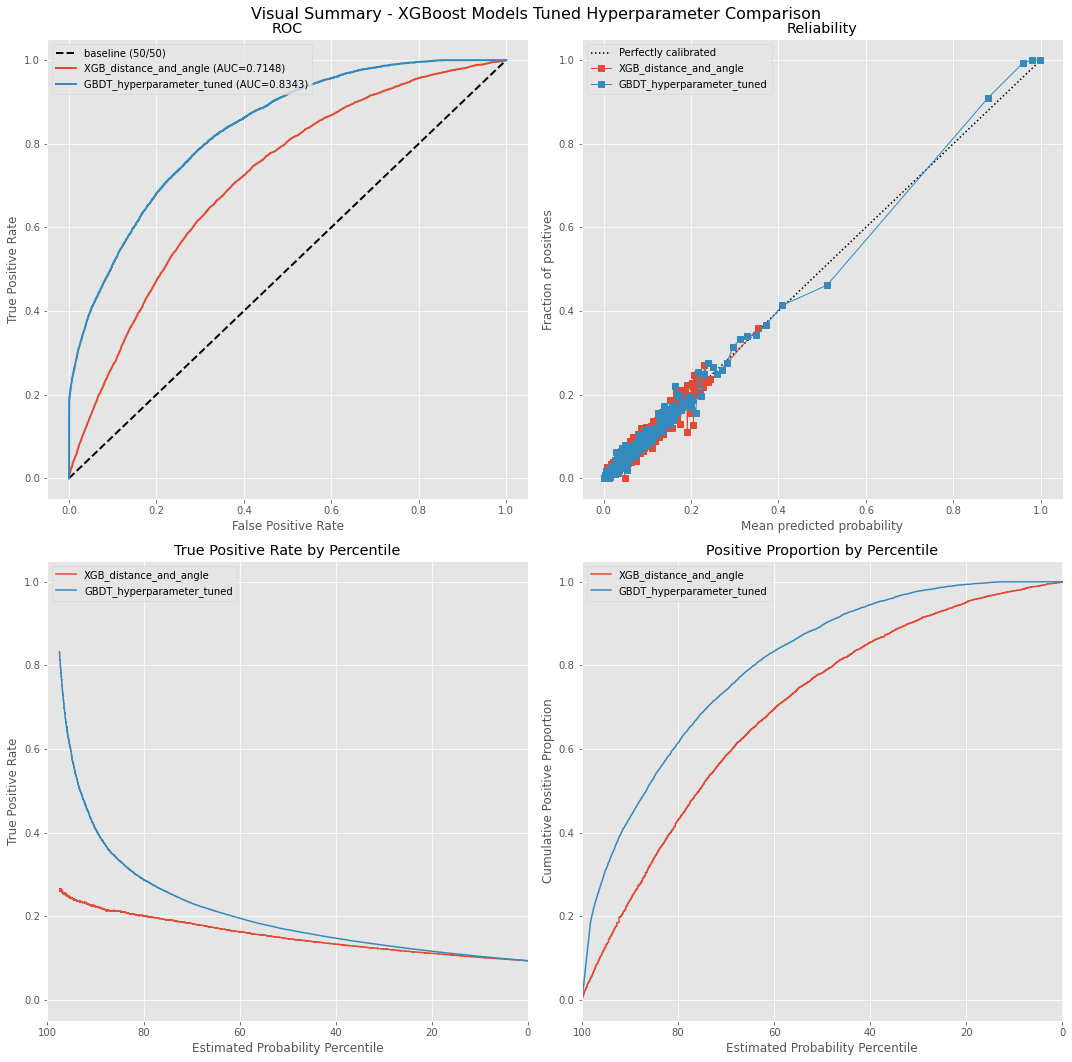
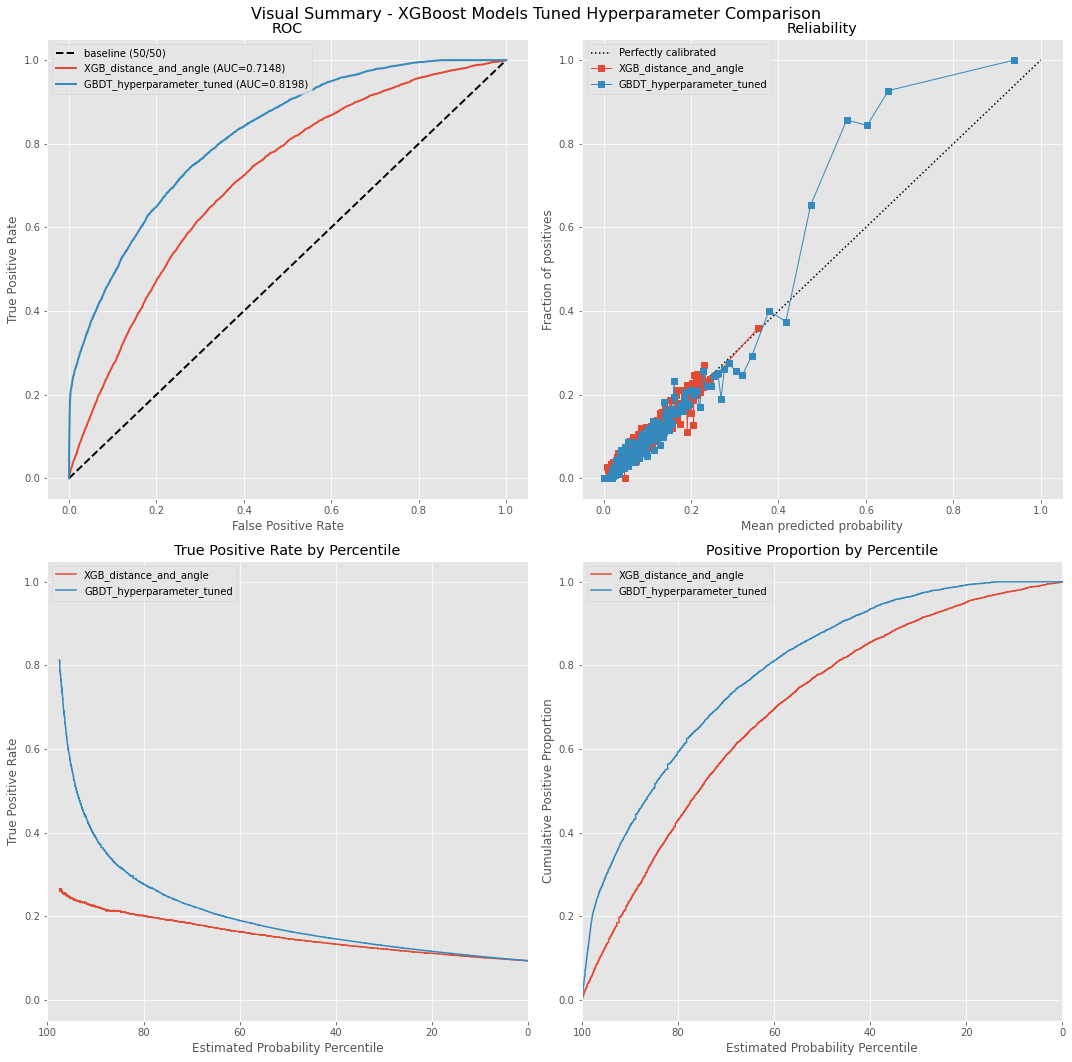
Updated Q2 image and added Q2 write-up.

diff --git a/_posts/2021-11-24-milestone-2 - Advanced Models.md b/_posts/2021-11-24-milestone-2 - Advanced Models.md
@@ -8,7 +8,7 @@ title: NHL Data Science Project - Milestone 2 - Advanced Models
 
 ## Q1: XGBoost Trained on Distance and Angle Features
 
-The XGBoost library is utilized to create the gradient boosted tree classifier, an ensembling method that combines outputs from individual trees to generate the final prediction. A baseline XGBoost model is created as instructed. This baseline model uses the same training/validation setup as the logistic regression models and is trained only on distance and angle features. Compare to the Logistic Regression model trained on distance and angle, the only difference is that the input features are not normalized. This decision is made based on the fact that decision trees are usually not affected by any monotonic transformation. 
+The XGBoost library is utilized to create the gradient boosted tree classifier, an ensembling method that combines outputs from individual trees to generate the final prediction. A simple XGBoost model with a learning rate of 1, depth of 2, using logistic regression for binary classification is created. This baseline model uses the same training/validation setup as the logistic regression models and is trained only on distance and angle features. Compare to the Logistic Regression model trained on distance and angle, the only difference is that the input features are not normalized. This decision is made based on the fact that decision trees are usually not affected by any monotonic transformation. 
 
 While the baseline XGBoost model achieves a very similar accuracy compare to the its Logistic Regssion counterpart (~90%), the confusion matrix reveals that the prediction of goals by this model is non-zero. Plotting the baseline XGBoost model with the Logistis Regression model on the four performance evaluation figures confirms that the XGBoost model has a marginal performance advantage over the Logistis Regression model (See below). Most notably, the reliability curve shows that the XGBoost model produces more higher predicted Probabilities that are inline with the perfectly calibrated line. 
 
@@ -28,17 +28,21 @@ Experiment entry: https://www.comet.ml/tim-k-lee/ift6758-hockey/70a252e382c74d94
 ## Q2: XGBoost Trained on New Features and Hyperparameter Tuning
 
 
+"""In your blog post, discuss your hyperparameter tuning setup, and include figures to substantiate your choice of hyperparameters. For example, you could select appropriate metrics and do a grid search with cross validation. Once tuned, include curves corresponding to the best model to the four figures in your blog post, and briefly compare the results to the XGBoost baseline. Include a link to the relevant comet.ml entry for this experiment, and log this model to the model registry."""
 
+The optimal hyperparameters are obtained through the random search cross validation method. A 5 fold cross-validation splitting strategy is selected, this strategy is repeated 50 iterations to determine the optimal combination. The combination is then refit one last time using the entire dataset to avoid overfitting. The input features used in this experiment include the new features added in the previous sections but exclude the bonus features.
 
-In your blog post, discuss your hyperparameter tuning setup, and include figures to substantiate your choice of hyperparameters. For example, you could select appropriate metrics and do a grid search with cross validation. Once tuned, include curves corresponding to the best model to the four figures in your blog post, and briefly compare the results to the XGBoost baseline. Include a link to the relevant comet.ml entry for this experiment, and log this model to the model registry.
+The parameters obtained through the optimization process are as follow:
+ - Learning rate step size [learning_rate]: 0.1
+ - Number of gradient boosted trees [n_estimators]: 275
+ - Maximum tree depth [max_depth]: 1
+ - Minimum loss reduction required for split [gamma]: 0.1
 
+The identified optimal hyperparameters are used to created a tuned XGBoost classifier. The confusion matrix shows that the tuned model predicted more goals than the baseline model and has a minor accuracy increment of ~2%. The two models are plotted on the evaluation figures as shown below. It is very apparent that the tuned model is performing better than the baseline. It achieves an AUC of ~0.82, a ~15% increase from the baseline. Both the positive rate by percentile figure and the positive proportion by percentile figure suggest that the probability prediction of the tuned model is more aligned with the actual goal rate. This observation is further reinforced by the reliability curve. The model is capable of generating a high probability prediction even though most of those predictions lie above the perfectly calibrated line rather than overlapping it. Nevertheless, this is the best performing model to this point.
 
-Accuracy: 0.923
-
-| Actual: No Goal |        60067       |        101        |
-|   Actual: Goal  |        4981        |        1241        |
+| Actual: No Goal |        60048       |        120        |
+|   Actual: Goal  |        5110        |        1112        |
 |                 | Predicted: No Goal | Predicted: Goal |
-
 
 ![XGBoost Hyperparameter Tuned](/Images/M2_AM_Q2_XGBoost_Hyper_Tuned.png)
 
@@ -51,7 +55,10 @@ XGBoost classifier, trained on new features and hyperparameter tuning: [gbdt-hpa
 ## Q3: XGBoost Trained on Optimal Feature Set
 
 
-Discuss the feature selection strategies that you tried, and what was the most optimal set of features that you came up with. Include some figures to substantiate your claims. Once you’ve found the optimal set of features via hyperparameter tuning/cross validation, if the feature set is different than what was used for Q2 of this section, include curves corresponding to the best model to the four figures in your blog post, and briefly compare the results to the XGBoost baseline. Include a link to the relevant comet.ml entry for this experiment, and log this model to the model registry.
+
+
+
+"""Discuss the feature selection strategies that you tried, and what was the most optimal set of features that you came up with. Include some figures to substantiate your claims. Once you’ve found the optimal set of features via hyperparameter tuning/cross validation, if the feature set is different than what was used for Q2 of this section, include curves corresponding to the best model to the four figures in your blog post, and briefly compare the results to the XGBoost baseline. Include a link to the relevant comet.ml entry for this experiment, and log this model to the model registry."""
 
 
 ![XGBoost Optimal](/Images/M2_AM_Q2_XGBoost_Hyper_Optimal.png)
